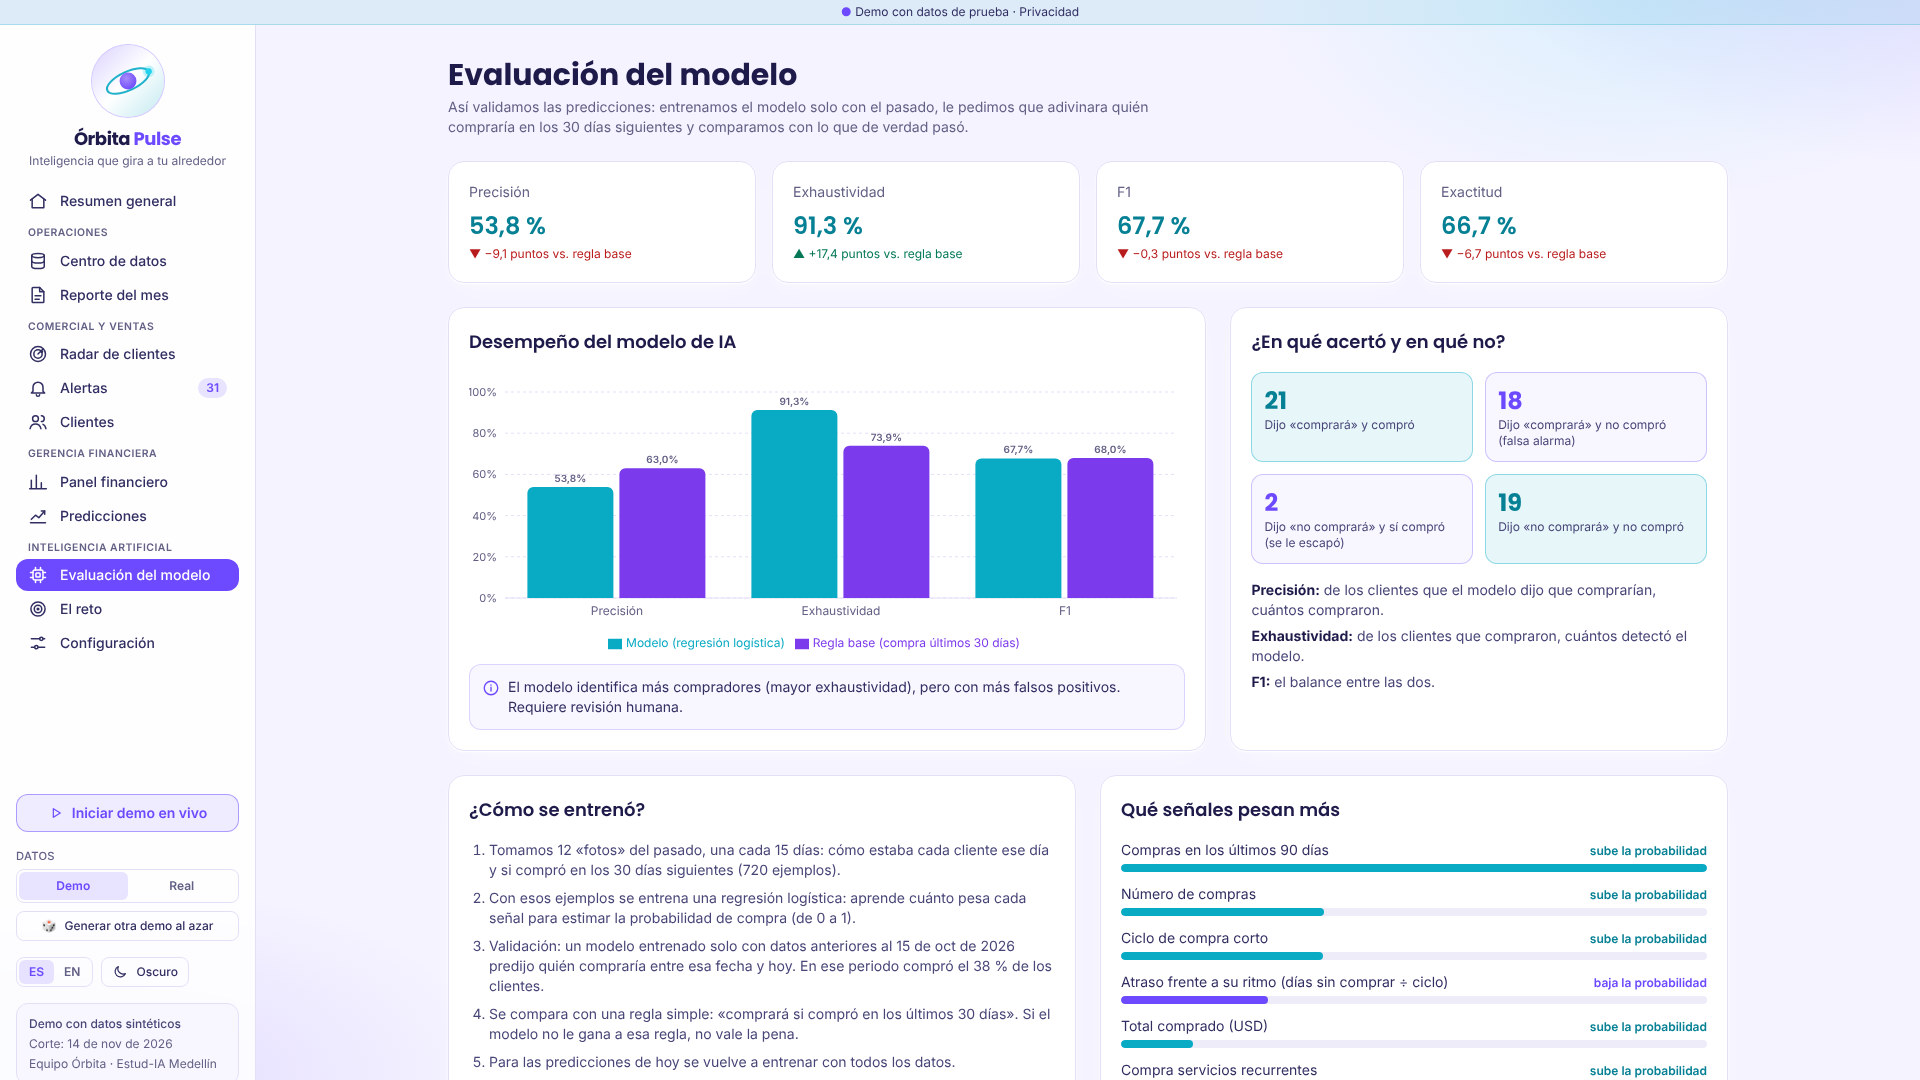
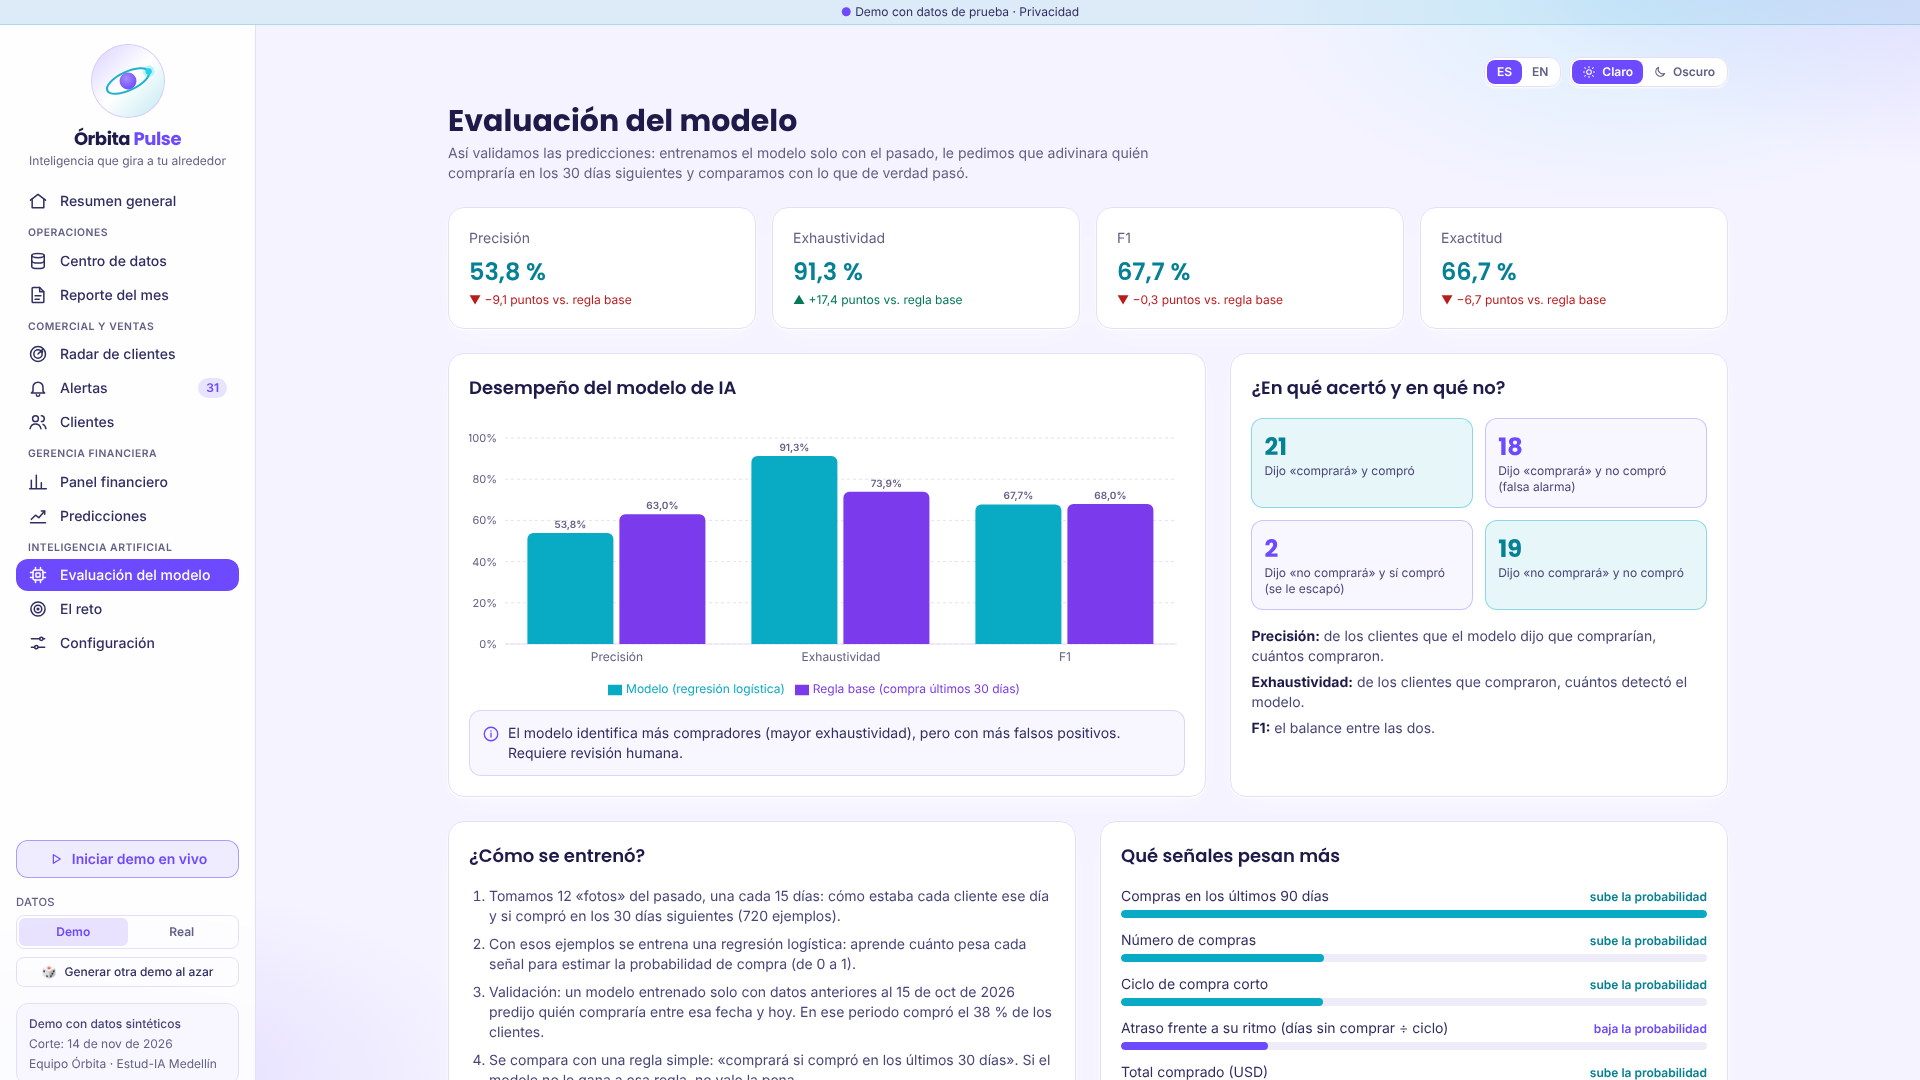
Idioma y tema siempre visibles arriba a la derecha
Claude-Session: https://claude.ai/code/session_01V47smqWTVFvoFeZKSH27ha

diff --git a/src/components/Preferencias.tsx b/src/components/Preferencias.tsx
@@ -1,46 +1,65 @@
 import { useIdioma, type Idioma } from '../lib/idioma';
-import { useTema } from '../lib/tema';
+import { useTema, type Tema } from '../lib/tema';
 import { IconoLuna, IconoSol } from './Iconos';
 
-/** Selector de idioma (ES / EN) y botón de tema claro / oscuro. */
+/** Interruptor de dos opciones (mismo estilo para idioma y tema). */
+function Interruptor<T extends string>({
+  etiqueta,
+  valor,
+  opciones,
+  alElegir,
+}: {
+  etiqueta: string;
+  valor: T;
+  opciones: { valor: T; texto: React.ReactNode; nombre: string; lang?: string }[];
+  alElegir: (v: T) => void;
+}) {
+  return (
+    <div className="flex rounded-xl border border-borde bg-tarjeta p-0.5 shadow-tarjeta" role="group" aria-label={etiqueta}>
+      {opciones.map((o) => (
+        <button
+          key={o.valor}
+          type="button"
+          lang={o.lang}
+          onClick={() => alElegir(o.valor)}
+          aria-pressed={valor === o.valor}
+          aria-label={o.nombre}
+          title={o.nombre}
+          className={`inline-flex items-center gap-1.5 rounded-lg px-2.5 py-1 text-xs font-semibold transition-colors ${
+            valor === o.valor ? 'bg-acento text-sobre-acento' : 'text-tenue hover:text-acento'
+          }`}
+        >
+          {o.texto}
+        </button>
+      ))}
+    </div>
+  );
+}
+
+/** Selector de idioma (ES / EN) y de tema (Claro / Oscuro), siempre visibles arriba a la derecha. */
 export default function Preferencias({ compacto = false }: { compacto?: boolean }) {
   const { idioma, cambiar, tr } = useIdioma();
   const { tema, alternar } = useTema();
-  const opciones: { valor: Idioma; texto: string; nombre: string }[] = [
-    { valor: 'es', texto: 'ES', nombre: 'Español' },
-    { valor: 'en', texto: 'EN', nombre: 'English' },
-  ];
-  const claro = tema === 'light';
   return (
-    <div className="flex items-center gap-2">
-      <div className="flex rounded-lg border border-borde p-0.5" role="group" aria-label={tr('Idioma', 'Language')}>
-        {opciones.map((o) => (
-          <button
-            key={o.valor}
-            type="button"
-            lang={o.valor}
-            onClick={() => cambiar(o.valor)}
-            aria-pressed={idioma === o.valor}
-            aria-label={o.nombre}
-            title={o.nombre}
-            className={`rounded-md px-2.5 py-1 text-xs font-semibold transition-colors ${
-              idioma === o.valor ? 'bg-acento/15 text-acento' : 'text-tenue hover:text-white'
-            }`}
-          >
-            {o.texto}
-          </button>
-        ))}
-      </div>
-      <button
-        type="button"
-        onClick={alternar}
-        aria-label={claro ? tr('Cambiar a modo oscuro', 'Switch to dark mode') : tr('Cambiar a modo claro', 'Switch to light mode')}
-        title={claro ? tr('Modo oscuro', 'Dark mode') : tr('Modo claro', 'Light mode')}
-        className="inline-flex items-center gap-2 rounded-lg border border-borde px-2.5 py-1.5 text-xs font-medium text-slate-200 hover:bg-white/5"
-      >
-        {claro ? <IconoLuna width={16} height={16} /> : <IconoSol width={16} height={16} />}
-        {!compacto && <span>{claro ? tr('Oscuro', 'Dark') : tr('Claro', 'Light')}</span>}
-      </button>
+    <div className="flex items-center gap-2 print:hidden">
+      <Interruptor<Idioma>
+        etiqueta={tr('Idioma', 'Language')}
+        valor={idioma}
+        alElegir={cambiar}
+        opciones={[
+          { valor: 'es', texto: 'ES', nombre: 'Español', lang: 'es' },
+          { valor: 'en', texto: 'EN', nombre: 'English', lang: 'en' },
+        ]}
+      />
+      <Interruptor<Tema>
+        etiqueta={tr('Tema', 'Theme')}
+        valor={tema}
+        alElegir={(t) => t !== tema && alternar()}
+        opciones={[
+          { valor: 'light', texto: <><IconoSol width={14} height={14} />{!compacto && tr('Claro', 'Light')}</>, nombre: tr('Modo claro', 'Light mode') },
+          { valor: 'dark', texto: <><IconoLuna width={14} height={14} />{!compacto && tr('Oscuro', 'Dark')}</>, nombre: tr('Modo oscuro', 'Dark mode') },
+        ]}
+      />
     </div>
   );
 }

diff --git a/src/components/Layout.tsx b/src/components/Layout.tsx
@@ -82,10 +82,10 @@ function Marca({ grande = false }: { grande?: boolean }) {
       <div className="flex items-center gap-3">
         <Logo size={40} />
         <div className="leading-tight">
-          <p className="font-titulo text-lg font-bold tracking-tight text-white">
+          <p className="whitespace-nowrap font-titulo text-lg font-bold tracking-tight text-white">
             Órbita <span className="text-acento">Pulse</span>
           </p>
-          <p className="text-[0.7rem] text-tenue">{tr('para Green Services', 'for Green Services')}</p>
+          <p className="hidden text-[0.7rem] text-tenue min-[400px]:block">{tr('para Green Services', 'for Green Services')}</p>
         </div>
       </div>
     );
@@ -194,7 +194,6 @@ export default function Layout() {
         </div>
         <BotonDemo />
         <SelectorModo />
-        <Preferencias />
         <PieDemo />
       </aside>
 
@@ -202,6 +201,9 @@ export default function Layout() {
       <header className="sticky top-0 z-30 border-b border-borde bg-fondo/95 backdrop-blur print:hidden lg:hidden">
         <div className="flex items-center justify-between gap-2 px-4 py-3">
           <Marca />
+          <div className="ml-auto">
+            <Preferencias compacto />
+          </div>
           <button
             type="button"
             className="rounded-lg p-2 text-slate-200 hover:bg-white/5"
@@ -219,7 +221,6 @@ export default function Layout() {
             <div className="mt-3 space-y-3 border-t border-borde pt-3">
               <BotonDemo alPulsar={() => setAbierto(false)} />
               <SelectorModo />
-              <Preferencias />
             </div>
           </div>
         )}
@@ -227,6 +228,10 @@ export default function Layout() {
 
       <main className={`min-w-0 flex-1 px-4 py-6 print:p-0 sm:px-6 lg:px-10 lg:py-8 ${presentando ? 'pb-48 lg:pb-36' : ''}`}>
         <div className="mx-auto max-w-7xl">
+          {/* Idioma y tema: siempre visibles arriba a la derecha (en celular van en el encabezado) */}
+          <div className="mb-4 hidden justify-end print:hidden lg:flex">
+            <Preferencias />
+          </div>
           <AvisoSinDatos />
           <Outlet />
         </div>

diff --git a/tests/interfaz/navegacion.spec.ts b/tests/interfaz/navegacion.spec.ts
@@ -15,7 +15,7 @@ test.describe('todas las pantallas (demo)', () => {
 test('el tema claro es el predeterminado y el oscuro se recuerda', async ({ page }) => {
   await page.goto('/');
   await expect(page.locator('html')).not.toHaveAttribute('data-theme', 'dark');
-  await page.locator('aside').getByRole('button', { name: /modo oscuro/i }).click();
+  await page.getByRole('button', { name: 'Modo oscuro' }).click();
   await expect(page.locator('html')).toHaveAttribute('data-theme', 'dark');
   await page.reload();
   await expect(page.locator('html')).toHaveAttribute('data-theme', 'dark');
@@ -23,9 +23,9 @@ test('el tema claro es el predeterminado y el oscuro se recuerda', async ({ page
 
 test('cambia a inglés y vuelve a español', async ({ page }) => {
   await page.goto('/');
-  await page.locator('aside').getByRole('button', { name: 'English' }).click();
+  await page.getByRole('button', { name: 'English' }).click();
   await expect(page.getByRole('heading', { level: 1 })).toContainText('Artificial Intelligence');
-  await page.locator('aside').getByRole('button', { name: 'Español' }).click();
+  await page.getByRole('button', { name: 'Español' }).click();
   await expect(page.getByRole('heading', { level: 1 })).toContainText('Inteligencia Artificial');
 });
 
@@ -34,5 +34,14 @@ test('el menú lleva a cada sección', async ({ page }) => {
   for (const [texto, ruta] of [['Centro de datos', '/datos'], ['Clientes', '/clientes'], ['Evaluación del modelo', '/modelo'], ['Resumen general', '/']] as const) {
     await page.locator('aside').getByRole('link', { name: texto, exact: true }).click();
     await expect(page).toHaveURL(new RegExp(`${ruta}$`));
+  }
+});
+
+test('idioma y tema se ven arriba sin desplazarse, incluso en un portátil pequeño', async ({ page }) => {
+  await page.setViewportSize({ width: 1366, height: 768 });
+  await page.goto('/');
+  for (const nombre of ['English', 'Español', 'Modo claro', 'Modo oscuro']) {
+    const caja = await page.getByRole('button', { name: nombre }).boundingBox();
+    expect(caja && caja.y + caja.height <= 768, nombre).toBe(true);
   }
 });

diff --git a/tests/interfaz/responsive.spec.ts b/tests/interfaz/responsive.spec.ts
@@ -17,3 +17,11 @@ test('el menú del celular se abre y navega', async ({ page }) => {
   await page.locator('#menu-movil').getByRole('link', { name: 'Evaluación del modelo' }).click();
   await expect(page).toHaveURL(/\/modelo$/);
 });
+
+test('el idioma y el tema se cambian desde el encabezado del celular', async ({ page }) => {
+  await page.goto('/');
+  await page.getByRole('button', { name: 'English' }).click();
+  await expect(page.getByRole('heading', { level: 1 })).toContainText('Artificial Intelligence');
+  await page.getByRole('button', { name: 'Dark mode' }).click();
+  await expect(page.locator('html')).toHaveAttribute('data-theme', 'dark');
+});

diff --git a/docs/decisiones.md b/docs/decisiones.md
@@ -98,3 +98,4 @@ Cuando algo no estaba especificado, tomamos la opción más simple. Aquí quedan
 73. **Pruebas**: Vitest para la lógica y Playwright para la interfaz. Las pruebas encontraron un error real que se corrigió: el Centro de datos solo leía los nombres de columna de la primera fila.
 74. Las capturas de `npm run capturas` pasaron a tema claro, para que coincidan con el estilo nuevo.
 75. Cada logo tiene su propio id de degradado: con dos logos en la página (menú oculto en celular) el núcleo desaparecía.
+76. **Idioma y tema arriba a la derecha**, como interruptores de dos opciones (ES | EN y ☀ Claro | ☾ Oscuro): en el menú lateral quedaban por debajo del borde en pantallas de portátil (768 px y 900 px de alto). En celular van en el encabezado, junto al botón ☰.

diff --git a/README.md b/README.md
@@ -39,7 +39,7 @@ Un tablero web que:
 
 ## Idioma y tema
 
-En el menú (abajo a la izquierda en computador; dentro del botón ☰ en celular) hay dos controles:
+Arriba a la derecha de cada página (en celular, en el encabezado) hay dos interruptores siempre visibles:
 
 - **ES / EN**: cambia toda la interfaz entre español e inglés, incluidos los textos que genera la IA (recomendaciones, motivos de alerta, mensaje al cliente y reporte del mes) y el formato de fechas y números (14 nov 2026 · 1.234,5 ↔ Nov 14, 2026 · 1,234.5).
 - **Claro / Oscuro**: el tema **claro** (predeterminado) sigue el estilo del tablero del reto: fondo lila, tarjetas blancas, morado y turquesa. El **oscuro** es la misma paleta en versión nocturna.
